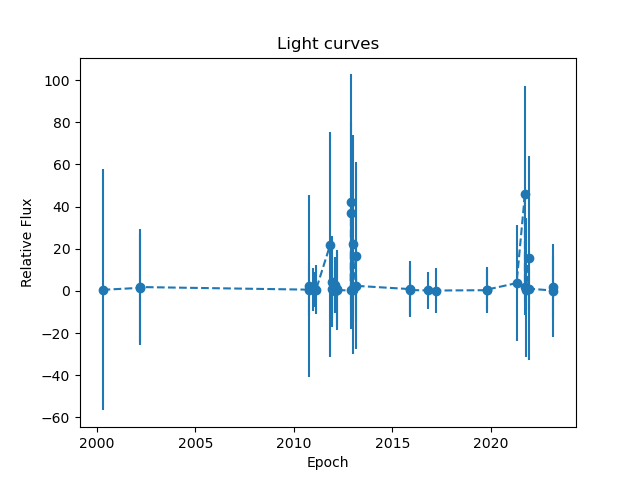
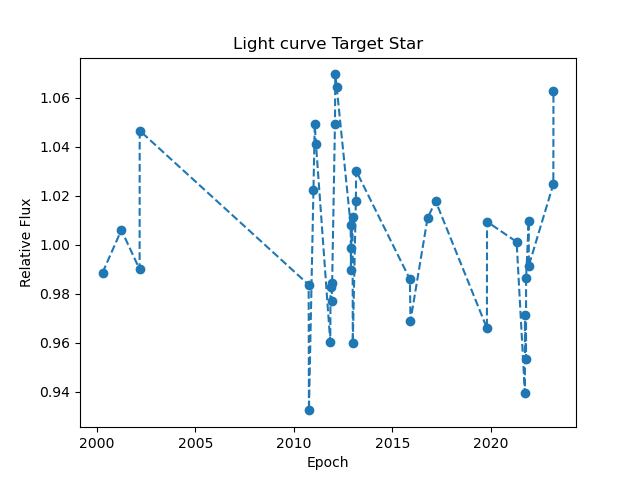
Fix target ID assignment and exclude bad frame HDU 17
Use sequential position index instead of ID_file for consistent
star identification across frames; skip HDU 17 by index.

diff --git a/fits_to_table.py b/fits_to_table.py
@@ -5,17 +5,21 @@ import numpy as np
 
 rows = []
 
+SKIP_HDUS = {17}  # HDU indices to exclude (1-based, relative to hdul)
+
 with fits.open("J0559-1404/J0559-1404_NTT_sequence.fits") as hdul:
-    for hdu in hdul[1:]:
+    for i, hdu in enumerate(hdul[1:], start=1):
+        if i in SKIP_HDUS:
+            continue
         if hdu.data is None:
             continue
+
 
         #epoch = hdu.header.get("MJD-OBS")
         data = hdu.data
 
-        for obstime, star_id, X, Y, ra, dec, mag, errmag, flux, flux_err in zip(
+        for target_id, (obstime, X, Y, ra, dec, mag, errmag, flux, flux_err) in enumerate(zip(
             data["obstime"],
-            data["ID_file"],
             data["X"],
             data["Y"],
             data["RA"],
@@ -24,12 +28,10 @@ with fits.open("J0559-1404/J0559-1404_NTT_sequence.fits") as hdul:
             data["errmag"],
             data['flux'],
             data['flux_err']
-        ):
-            if np.isnan(star_id):
-                continue
+        )):
             rows.append({
                 "epoch": obstime,
-                "star_id": int(star_id),
+                "star_id": target_id,
                 "X": X,
                 "Y": Y,
                 "ra": (360/(2*np.pi)) * float(ra),
@@ -42,10 +44,15 @@ with fits.open("J0559-1404/J0559-1404_NTT_sequence.fits") as hdul:
 
 # data
 data_full = pd.DataFrame(rows)
+data_full.to_csv('example.csv', index=False)
+
+
 
 # find median mag and median error to characterize star
 data_full["mag_median_star"] = data_full.groupby("star_id")["mag"].transform("median")
 data_full["errmag_median_star"] = data_full.groupby("star_id")["errmag"].transform("median")
+
+
 
 # extract similar stars
 target_star_id = 102
@@ -53,7 +60,7 @@ target_mag = data_full.loc[data_full["star_id"] == target_star_id, "mag_median_s
 target_sigma = data_full.loc[data_full["star_id"] == target_star_id, "errmag_median_star"].iloc[0]
 df_similar = pd.DataFrame()
 star_medians = data_full.groupby("star_id")["mag_median_star"].first()
-similar_ids = star_medians[(star_medians - target_mag).abs() <= 5 * target_sigma].index
+similar_ids = star_medians[(star_medians - target_mag).abs() <= 200 * target_sigma].index
 df_similar = data_full[data_full["star_id"].isin(similar_ids)].copy()
 
 print('similar stars:', df_similar.star_id.unique())
@@ -113,9 +120,9 @@ dif['dif'] = df_star['flux'] / epoch_stats['flux_median']
 dif['flux_err'] = df_star['flux_err']
 dif = dif.dropna()
 norm = np.median(dif['dif'])
-plt.errorbar(dif.index, dif['dif']/norm, yerr=dif['flux_err']/norm, fmt='--o')
+plt.errorbar(dif.index, dif['dif']/norm, yerr=0, fmt='--o')
 plt.xlabel("Epoch")
 plt.ylabel("Relative Flux")
-plt.title(f"Light curves")
+plt.title(f"Light curve Target Star")
 plt.savefig('figures/flux_target_star.png')
 plt.show()
